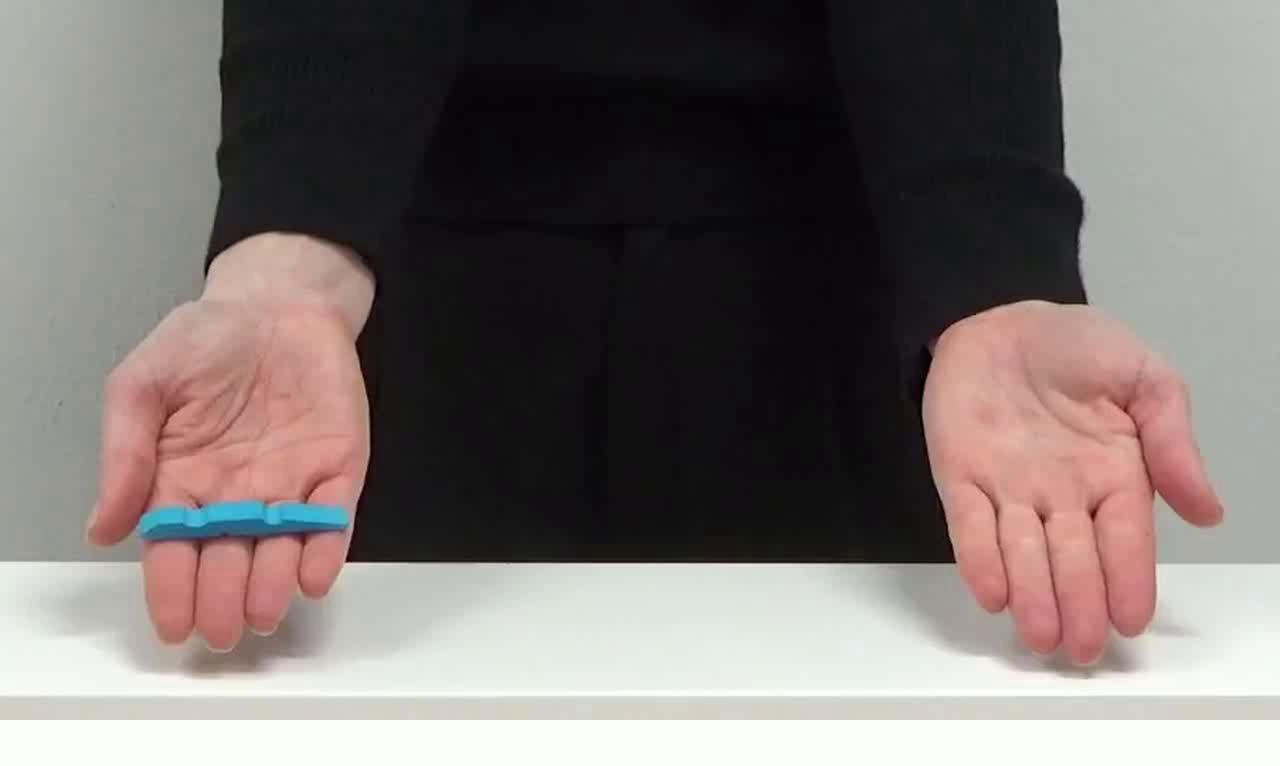
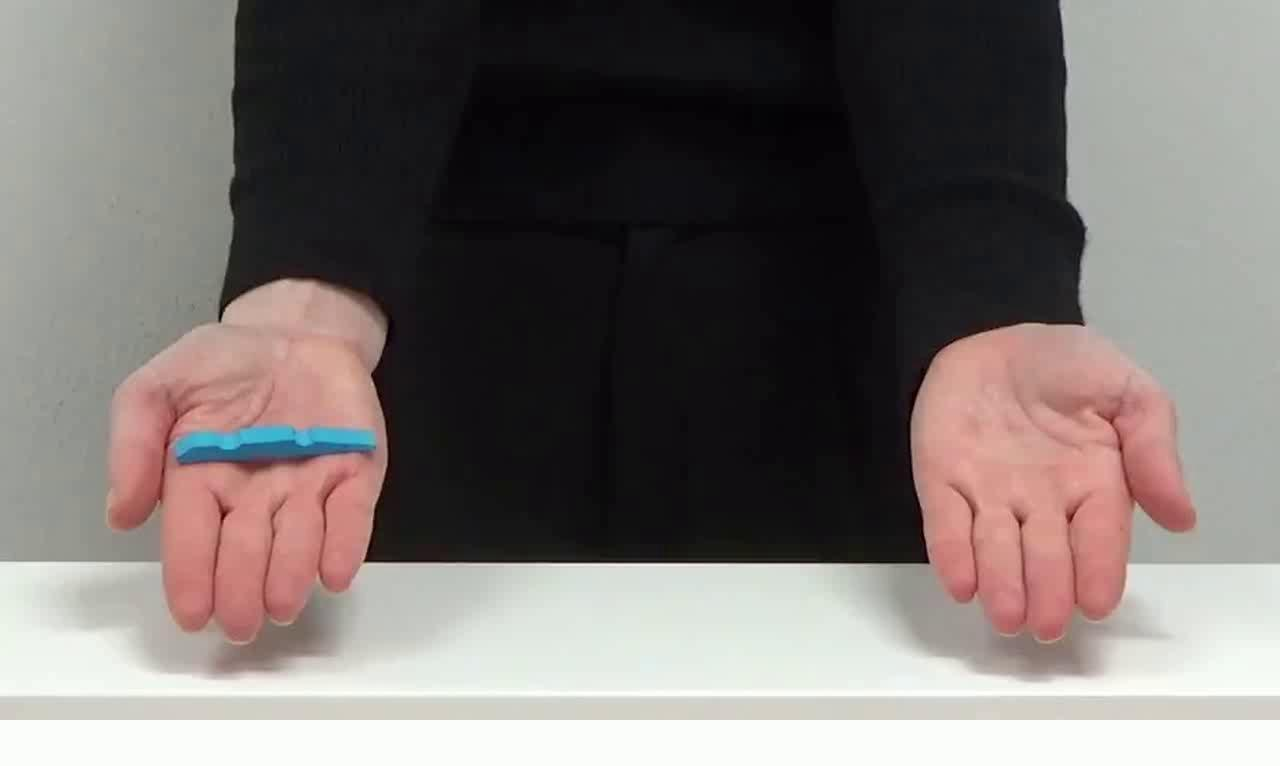
Reward increased to 75

diff --git a/tasks/Probability_Handtracking_PG5.py b/tasks/Probability_Handtracking_PG5.py
@@ -159,14 +159,23 @@ class Probability_Handtracking_PG5(Task):
         self.alert_sent = False
 
         self.substage_stage_map = {
-            5: {1: 0.25, 2: 0.75},
-            6: {1: 0.125, 2: 0.875}
+            6: {1: 0.25, 2: 0.75},
+            7: {1: 0.125, 2: 0.875}
         }
 
         self.stage_sequence_counter = 0
-
+        self.substage_counter_1= 0
+        self.substage_counter_2 = 0
+        self.substage_counter_3 = 0
+        self.substage_counter_4 = 0
         self.substage_counter_5 = 0
         self.substage_counter_6 = 0
+        self.substage_counter_7 = 0
+        self.substage_counter_8 = 0
+        self.substage_counter_9 = 0
+        self.substage_counter_10 = 0
+        self.substage_counter_11 = 0
+        self.substage_counter_12 = 0
 
 
         self.fixation_trigger_port = Bpod.Events.Port5In
@@ -439,14 +448,11 @@ class Probability_Handtracking_PG5(Task):
 
     def main_loop(self):
         print('')
-        print('Block_trial_counter= ', self.block_trial_counter)
-        print('Stage_sequence_counter= ', self.stage_sequence_counter)
-        print('Substage= ', self.substage)
         ### Randomizing the stimulus positions for both the images:
 
         self.accuracy_criteria_substage = {
-            5: 0.80,
             6: 0.80,
+            7: 0.80,
         }
 
         if self.current_trial == 0:
@@ -489,7 +495,7 @@ class Probability_Handtracking_PG5(Task):
             self.block_correct_count = 0
             self.block_valid_count = 0
             self.stim_trial_counter = 0
-            new_stage = max(self.substage - 1, 5)
+            new_stage = max(self.substage - 1, 6)
             if new_stage == self.last_forward_stage:
                 if self.last_backward_stage == new_stage:
                     self.moved_back_counter += 1
@@ -506,26 +512,31 @@ class Probability_Handtracking_PG5(Task):
             except:
                 print("Telegram message not sent")
 
+        print('Block_trial_counter= ', self.block_trial_counter)
+        print('Stage_sequence_counter= ', self.stage_sequence_counter)
+        print('Substage= ', self.substage)
+
         ### Randomizing the stimulus positions for image and the videos:
         # Stage Assignment:
-        if self.stage_sequence_counter == 0:
-            if self.substage <= 3:
-                self.stage_sequence = self.get_stage_sequence(
-                    block_size=self.block_size,
-                    substage=self.substage,
-                    last_stage_trial=self.last_stage_trial
-                )
-            else:
-                self.stage_sequence = self.get_stage_sequence_fixed_video(
-                    block_size=self.block_size,
-                    substage=self.substage,
-                    last_stage_trial=self.last_stage_trial
-                )
-            self.stage_sequence_counter = 0
-            self.last_stage_trial = self.stage_sequence[-1]
-            print("stage_sequence = ", self.stage_sequence)
+        if self.task_number == 5:
+            if self.stage_sequence_counter == 0:
+                if self.substage <= 3:
+                    self.stage_sequence = self.get_stage_sequence(
+                        block_size=self.block_size,
+                        substage=self.substage,
+                        last_stage_trial=self.last_stage_trial
+                    )
+                else:
+                    self.stage_sequence = self.get_stage_sequence_fixed_video(
+                        block_size=self.block_size,
+                        substage=self.substage,
+                        last_stage_trial=self.last_stage_trial
+                    )
+                self.stage_sequence_counter = 0
+                self.last_stage_trial = self.stage_sequence[-1]
+                print("stage_sequence = ", self.stage_sequence)
 
-        self.stage = self.stage_sequence[self.stage_sequence_counter]
+            self.stage = self.stage_sequence[self.stage_sequence_counter]
 
         #REMINDER: HERE THE LAST STAGE TRIAL IS THE STAGE IN THE LAST TRIAL OF BLOCK.
         
@@ -924,11 +935,11 @@ class Probability_Handtracking_PG5(Task):
                 # Block trial counter logic
                 if self.substage < 4 or self.stage % 2 == 0:
                     self.block_trial_counter += 1
+                    self.total_trials += 1
                 # Count only if video trial
                 if self.stage % 2 == 0:
                     self.block_valid_count += 1
                 self.success = 0
-                self.total_trials += 1
                 self.condition_trial_counter += 1
                 if self.bias_breaking == 0:
                     self.stim_trial_counter += 1
@@ -944,12 +955,12 @@ class Probability_Handtracking_PG5(Task):
                 # Block trial counter logic
                 if self.substage < 4 or self.stage % 2 == 0:
                     self.block_trial_counter += 1
+                    self.total_trials += 1
                 # Count only if video trial
                 if self.stage % 2 == 0:
                     self.block_valid_count += 1
                     self.block_correct_count += 1
                     self.success = 1
-                self.total_trials += 1
                 self.condition_trial_counter += 1
                 if self.bias_breaking == 0:
                     self.stim_trial_counter += 1
@@ -998,7 +1009,7 @@ class Probability_Handtracking_PG5(Task):
                 else:
                     print("Accuracy criteria not met.")
                 #Trial limit check (set backward ONLY if forward is NOT happening)
-                if self.block_trial_counter >= self.trial_end_criteria and self.stage_forward_change == 0:
+                if self.total_trials >= self.trial_end_criteria and self.stage_forward_change == 0:
                     self.stage_backward_change = 1
 
             #Assign in pass what to do when the rat is moved back more than 5 times.

diff --git a/tasks/Probability_Handtracking_Zoomed_Mod.py b/tasks/Probability_Handtracking_Zoomed_Mod.py
@@ -445,9 +445,6 @@ class Probability_Handtracking_Zoomed_Mod(Task):
 
     def main_loop(self):
         print('')
-        print('Block_trial_counter= ', self.block_trial_counter)
-        print('Stage_sequence_counter= ', self.stage_sequence_counter)
-        print('Substage= ', self.substage)
         ### Randomizing the stimulus positions for both the images:
 
         self.accuracy_criteria_substage = {
@@ -457,11 +454,6 @@ class Probability_Handtracking_Zoomed_Mod(Task):
             4: 0.80,
             5: 0.80,
             6: 0.80,
-            7: 0.80,
-            8: 0.80,
-            9: 0.80,
-            10: 0.80,
-            11: 0.80,
         }
 
         if self.current_trial == 0:
@@ -493,6 +485,7 @@ class Probability_Handtracking_Zoomed_Mod(Task):
             except Exception as e:
                 print(f"Telegram message not sent. Error: {e}")
             if self.substage == 7:
+                #self.substage = 6
                 self.task_number = 5
                 self.tired = True
 
@@ -521,26 +514,31 @@ class Probability_Handtracking_Zoomed_Mod(Task):
             except:
                 print("Telegram message not sent")
 
+        print('Block_trial_counter= ', self.block_trial_counter)
+        print('Stage_sequence_counter= ', self.stage_sequence_counter)
+        print('Substage= ', self.substage)
+
         ### Randomizing the stimulus positions for image and the videos:
         # Stage Assignment:
-        if self.stage_sequence_counter == 0:
-            if self.substage <= 3:
-                self.stage_sequence = self.get_stage_sequence(
-                    block_size=self.block_size,
-                    substage=self.substage,
-                    last_stage_trial=self.last_stage_trial
-                )
-            else:
-                self.stage_sequence = self.get_stage_sequence_fixed_video(
-                    block_size=self.block_size,
-                    substage=self.substage,
-                    last_stage_trial=self.last_stage_trial
-                )
-            self.stage_sequence_counter = 0
-            self.last_stage_trial = self.stage_sequence[-1]
-            print("stage_sequence = ", self.stage_sequence)
+        if self.task_number == 4:
+            if self.stage_sequence_counter == 0:
+                if self.substage <= 3:
+                    self.stage_sequence = self.get_stage_sequence(
+                        block_size=self.block_size,
+                        substage=self.substage,
+                        last_stage_trial=self.last_stage_trial
+                    )
+                else:
+                    self.stage_sequence = self.get_stage_sequence_fixed_video(
+                        block_size=self.block_size,
+                        substage=self.substage,
+                        last_stage_trial=self.last_stage_trial
+                    )
+                self.stage_sequence_counter = 0
+                self.last_stage_trial = self.stage_sequence[-1]
+                print("stage_sequence = ", self.stage_sequence)
 
-        self.stage = self.stage_sequence[self.stage_sequence_counter]
+            self.stage = self.stage_sequence[self.stage_sequence_counter]
 
         #REMINDER: HERE THE LAST STAGE TRIAL IS THE STAGE IN THE LAST TRIAL OF BLOCK.
         
@@ -942,11 +940,11 @@ class Probability_Handtracking_Zoomed_Mod(Task):
                 # Block trial counter logic
                 if self.substage < 4 or self.stage % 2 == 0:
                     self.block_trial_counter += 1
+                    self.total_trials += 1
                 # Count only if video trial
                 if self.stage % 2 == 0:
                     self.block_valid_count += 1
                 self.success = 0
-                self.total_trials += 1
                 self.condition_trial_counter += 1
                 if self.bias_breaking == 0:
                     self.stim_trial_counter += 1
@@ -962,12 +960,12 @@ class Probability_Handtracking_Zoomed_Mod(Task):
                 # Block trial counter logic
                 if self.substage < 4 or self.stage % 2 == 0:
                     self.block_trial_counter += 1
+                    self.total_trials += 1
                 # Count only if video trial
                 if self.stage % 2 == 0:
                     self.block_valid_count += 1
                     self.block_correct_count += 1
                     self.success = 1
-                self.total_trials += 1
                 self.condition_trial_counter += 1
                 if self.bias_breaking == 0:
                     self.stim_trial_counter += 1
@@ -1016,7 +1014,7 @@ class Probability_Handtracking_Zoomed_Mod(Task):
                 else:
                     print("Accuracy criteria not met.")
                 #Trial limit check (set backward ONLY if forward is NOT happening)
-                if self.block_trial_counter >= self.trial_end_criteria and self.stage_forward_change == 0:
+                if self.total_trials >= self.trial_end_criteria and self.stage_forward_change == 0:
                     self.stage_backward_change = 1
 
             #Assign in pass what to do when the rat is moved back more than 5 times.

diff --git a/user/select_task.py b/user/select_task.py
@@ -657,19 +657,21 @@ def select_task(df, subject):
                     stage_backward_change = 0
                     last_forward_stage = 0
                     last_backward_stage = 0
-                    self.stage_sequence_counter = 0
-                    self.substage_counter_1 = 0
-                    self.substage_counter_2 = 0
-                    self.substage_counter_3 = 0
-                    self.substage_counter_4 = 0
-                    self.substage_counter_5 = 0
-                    self.substage_counter_6 = 0
-                    self.substage_counter_7 = 0
-                    self.substage_counter_8 = 0
-                    self.substage_counter_9 = 0
-                    self.substage_counter_10 = 0
-                    self.substage_counter_11 = 0
-                    self.substage_counter_12 = 0
+                    stage_sequence_counter = 0
+                    substage_counter_1 = 0
+                    substage_counter_2 = 0
+                    substage_counter_3 = 0
+                    substage_counter_4 = 0
+                    substage_counter_5 = 0
+                    substage_counter_6 = 0
+                    substage_counter_7 = 0
+                    substage_counter_8 = 0
+                    substage_counter_9 = 0
+                    substage_counter_10 = 0
+                    substage_counter_11 = 0
+                    condition_trial_counter = 0
+                    stage_sequence = []
+                    last_stage_trial = 0
                     message = f"PI: Probability_Handtracking_Zoomed_Mod complete, Moving to {task}."
                     print(f'{message}')
                     try:
@@ -703,19 +705,21 @@ def select_task(df, subject):
                     stage_backward_change = 0
                     last_forward_stage = 0
                     last_backward_stage = 0
-                    self.stage_sequence_counter = 0
-                    self.substage_counter_1 = 0
-                    self.substage_counter_2 = 0
-                    self.substage_counter_3 = 0
-                    self.substage_counter_4 = 0
-                    self.substage_counter_5 = 0
-                    self.substage_counter_6 = 0
-                    self.substage_counter_7 = 0
-                    self.substage_counter_8 = 0
-                    self.substage_counter_9 = 0
-                    self.substage_counter_10 = 0
-                    self.substage_counter_11 = 0
-                    self.substage_counter_12 = 0
+                    stage_sequence_counter = 0
+                    substage_counter_1 = 0
+                    substage_counter_2 = 0
+                    substage_counter_3 = 0
+                    substage_counter_4 = 0
+                    substage_counter_5 = 0
+                    substage_counter_6 = 0
+                    substage_counter_7 = 0
+                    substage_counter_8 = 0
+                    substage_counter_9 = 0
+                    substage_counter_10 = 0
+                    substage_counter_11 = 0
+                    condition_trial_counter = 0
+                    stage_sequence = []
+                    last_stage_trial = 0
                     message = f"PI: Probability_Handtracking_PG5 complete, Moving to {task}."
                     print(f'{message}')
                     try:
@@ -749,19 +753,21 @@ def select_task(df, subject):
                     stage_backward_change = 0
                     last_forward_stage = 0
                     last_backward_stage = 0
-                    self.stage_sequence_counter = 0
-                    self.substage_counter_1 = 0
-                    self.substage_counter_2 = 0
-                    self.substage_counter_3 = 0
-                    self.substage_counter_4 = 0
-                    self.substage_counter_5 = 0
-                    self.substage_counter_6 = 0
-                    self.substage_counter_7 = 0
-                    self.substage_counter_8 = 0
-                    self.substage_counter_9 = 0
-                    self.substage_counter_10 = 0
-                    self.substage_counter_11 = 0
-                    self.substage_counter_12 = 0
+                    stage_sequence_counter = 0
+                    substage_counter_1 = 0
+                    substage_counter_2 = 0
+                    substage_counter_3 = 0
+                    substage_counter_4 = 0
+                    substage_counter_5 = 0
+                    substage_counter_6 = 0
+                    substage_counter_7 = 0
+                    substage_counter_8 = 0
+                    substage_counter_9 = 0
+                    substage_counter_10 = 0
+                    substage_counter_11 = 0
+                    condition_trial_counter = 0
+                    stage_sequence = []
+                    last_stage_trial = 0
                     message = f"PI: Probability_Handtracking_Yellow complete, Moving to {task}."
                     print(f'{message}')
                     try:
